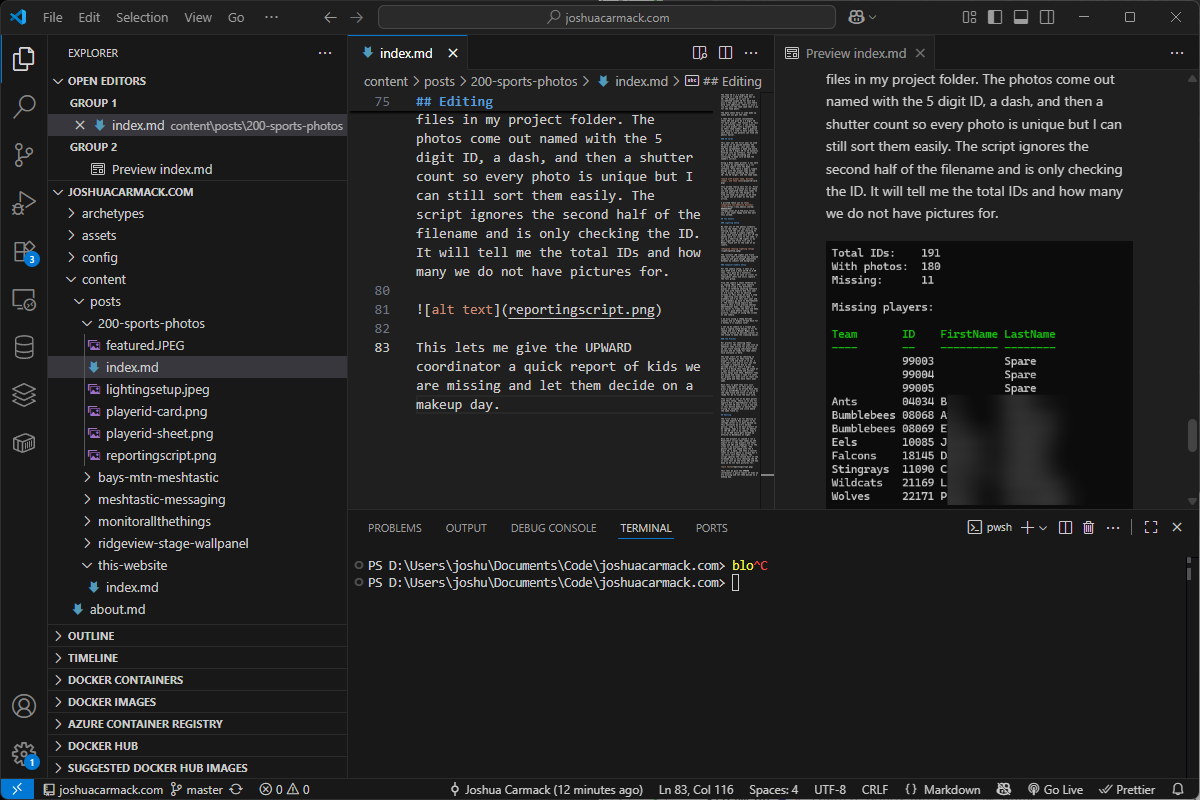
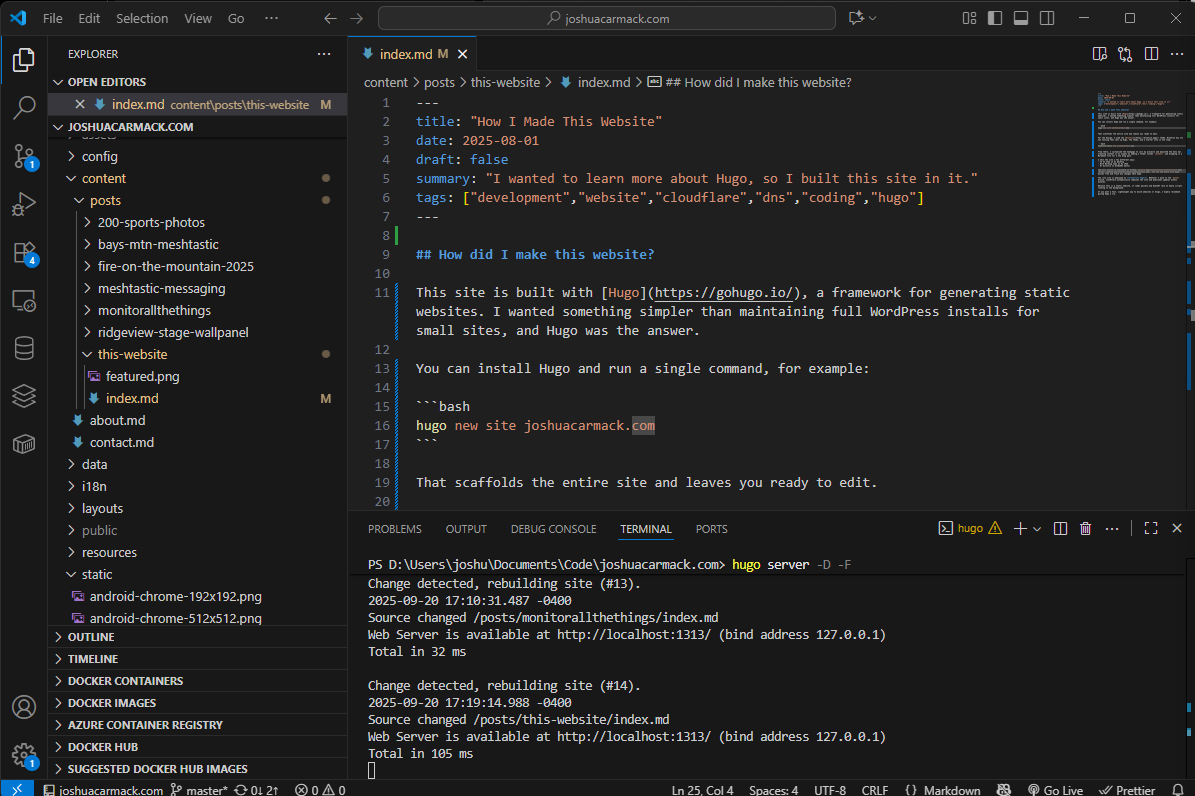
Updated how post

diff --git a/content/posts/this-website/index.md b/content/posts/this-website/index.md
@@ -5,22 +5,36 @@ draft: false
 summary: "I wanted to learn more about Hugo, so I built this site in it."
 tags: ["development","website","cloudflare","dns","coding","hugo"]
 ---
+
 ## How did I make this website?
 
-This website is built using [Hugo](https://gohugo.io/) which is a framework for building static websites easily. I got tired of having to maintain WordPress installations for simple websites so I looked for something simpler. 
+This site is built with [Hugo](https://gohugo.io/), a framework for generating static websites. I wanted something simpler than maintaining full WordPress installs for small sites, and Hugo was the answer.
 
-You can install Hugo and run a simple command such as "hugo new site joshuacarmack.com" and it will build the entire site for you and then you can edit it. 
+You can install Hugo and run a single command, for example:
 
-I used a theme called [Blowfish](https://blowfish.page/) to make the site look the way I wanted. Blowfish has their own tooling that I used to create the site. It was as simple as running a command "blowfish-tools new joshuacarmack.com" and it sets up Hugo and installs their theme and a starter site.
+```bash
+hugo new site joshuacarmack.com
+```
 
-From there I made a few changes to the homepage to list my projects and change the menu bar. From there it's as simple as adding a new folder in the content folder and a simple markdown file to create a blog post.
+That scaffolds the entire site and leaves you ready to edit.
 
-I can edit the site from VS Code at home, using Working Copy on my iPad, or editing text files on GitHub.
+For the design, I used the [Blowfish](https://blowfish.page/) theme. Blowfish has its own tooling that sets up Hugo, the theme, and a starter site in one step:
 
-The entire site is on a GitHub repo at [https://github.com/joshuacarmack/joshuacarmack.com](https://github.com/joshuacarmack/joshuacarmack.com). You can see the files that Hugo runs and see any changes I have made.
+```bash
+blowfish-tools new joshuacarmack.com
+```
 
-The site actually runs on Cloudflare Pages. Anytime I push to the master branch on that repo, Cloudflare sees that there has been an update and will rebuild the site and update it within a few minutes. 
+From there, I customized the homepage to list my projects and adjusted the menu bar. Creating content is as simple as adding a folder inside `content/` and dropping in a Markdown file for a new blog post.
 
-This being a static website means that it loads quickly and has very little scripts to load in the background before you see content. 
+I edit the site a few different ways:
+- In VS Code on my desktop
+- With Working Copy on my iPad
+- Or directly in GitHub’s editor
 
-I highly recommend checking out Hugo if you want simple and fast websites or blogs.
+The full source is available on GitHub: [github.com/joshuacarmack/joshuacarmack.com](https://github.com/joshuacarmack/joshuacarmack.com). You can see every file Hugo builds from and track any changes I’ve made.
+
+The live site is deployed on **Cloudflare Pages**. Whenever I push to the `master` branch, Cloudflare automatically rebuilds the site and publishes updates within minutes.
+
+Because this is a static website, it loads quickly and doesn’t rely on heavy scripts running in the background.
+
+If you want a fast, lightweight way to build websites or blogs, I highly recommend giving Hugo a try.
